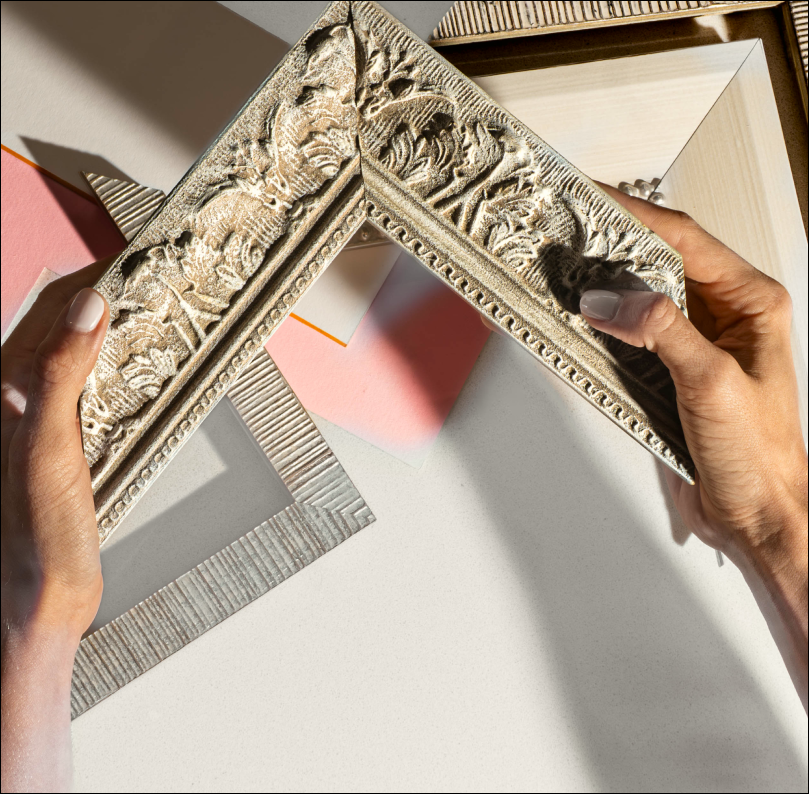
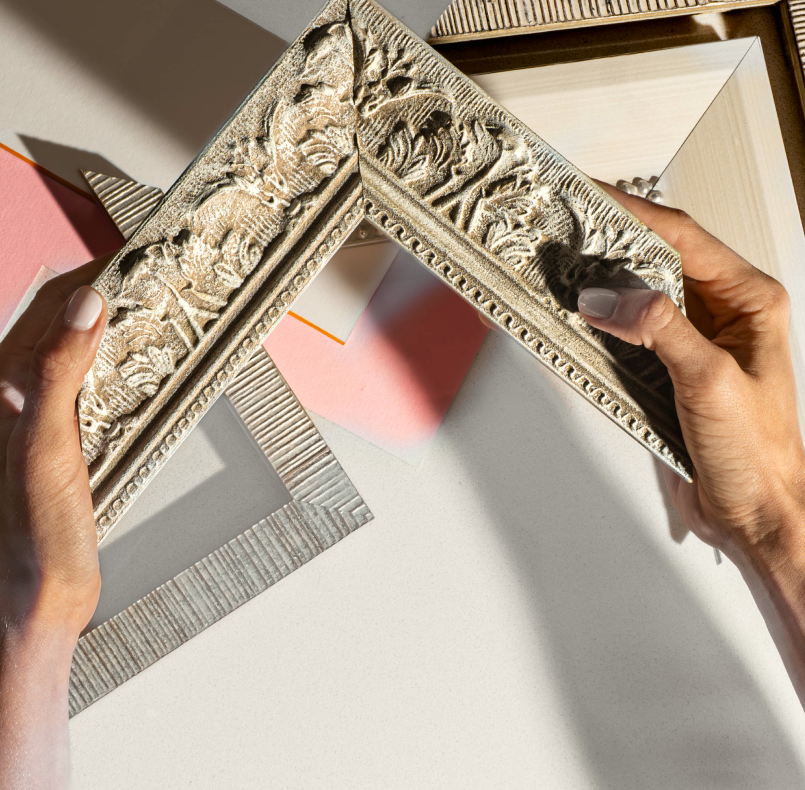
Ajustes "About"

diff --git a/public/assets/css/about.css b/public/assets/css/about.css
@@ -1,16 +1,9 @@
+/* MOBILE DEVICES ( <= 678px ) */
 .about-main-20 {
    width: 100%;
    height: auto;
    padding-inline: var(--gutter);
    max-width: var(--site-max-width);
-}
-
-.about-title-20 {
-   display: flex;
-   text-align: left;
-   overflow: hidden;
-   white-space: nowrap;
-   padding: 20px 0px 20px;
 }
 
 .about-image-20 {
@@ -57,49 +50,18 @@
 }
 
 .dual-content-20 {
-   padding: 20px 20px;
+   padding: 20px;
    position: relative;
    border-bottom: none;
    max-inline-size: 100%;
 }
 
-.dual-header-20 {
-   margin-bottom: 30px;
-}
-
-.left-title-20,
-.right-title-20 {
-   font-size: 18px;
-   font-weight: 500;
-   margin: 0 0 5px 0;
-   line-height: 120%;
-   color: var(--black);
-   font-family: 'Sohne';
-}
-
 .left-description-20,
 .right-description-20 {
-   font-size: 14px;
-   line-height: 14px;
-   margin-bottom: 30px;
-   color: var(--black);
-   font-family: 'Century Old Style Std', serif;
-}
-
-.about-subtitle-20 {
-   margin: 0 0 15px 0;
-   color: var(--black);
-   font-family: 'CenturyItlc';
-   font-size: clamp(18px, calc(12px + 1.1vw), 18px);
-}
-
-.left-text-20,
-.right-text-20 {
-   line-height: 120%;
-   margin: 0 0 15px 0;
+   font-size: 12px;
+   line-height: 1.1em;
    color: var(--black);
    font-family: 'CenturyReg';
-   font-size: clamp(12px, calc(12px + 1.1vw), 16px);
 }
 
 .dual-right-column-20 {
@@ -116,7 +78,14 @@
 
 .dual-right-image-20,
 .dual-left-image-20 {
+   overflow: auto;
+   position: relative;
+   block-size: fit-content;
+}
+
+.dual-img-20 {
    width: 100%;
+   height: 100%;
    border: none;
    display: block;
    max-height: 650px;
@@ -144,4 +113,17 @@
    border-left: none;
    border-right: 1px solid var(--black);
    border-bottom: none;
+}
+
+/* DESKTOP DEVICES ( > 678px ) */
+@media screen and (min-width: 678px) {
+   .dual-content-20 {
+      padding: 30px 60px 30px 30px;
+   }
+
+   .left-description-20,
+   .right-description-20 {
+      font-size: 16px;
+      line-height: 1.1em;
+   }
 }

diff --git a/public/views/about.php b/public/views/about.php
@@ -8,49 +8,44 @@
         <div class="dual-grid-20">
             <div class="dual-left-column-20">
                 <div class="dual-content-20">
-                    <div class="dual-header-20"></div>
                     <div class="left-description-20">
-                        <p class="about-subtitle-20">Bespoke Artvisory</p>
-                        <br>
-                        <p class="left-text-20">
-                            ARTRA exists in the space between art and emotion.<br>
-                            We frame with perspective&#8212; shaping how art lives<br>
-                            in its environment, how it breathes with light, with<br>
-                            space&#8212; how it meets the eye.<br>
-                            Every decision is deliberate: proportion, texture, color.
-                        </p>
+                        ARTRA was born from the need to honor what art
+                        makes us feel &#8212;from the belief that a frame is
+                        not a boundary, but a continuation of the story.<br>
+                        Think sculptural textures, deep tones, and bold
+                        simplicity&#8212; frames that do more than surround art;
+                        they complete it.
                     </div>
                 </div>
             </div>
             <div class="dual-right-column-20">
-                <picture>
-                    <source srcset="<?= BASE_URL; ?>/public/assets/image/about/img-03.png" media="(max-width: 767px)">
-                    <img class="dual-right-image-20" src="<?= BASE_URL; ?>/public/assets/image/about/img-03.png" alt="Framed Work">
-                </picture>
+                <div class="dual-right-image-20">
+                    <picture>
+                        <source srcset="<?= BASE_URL; ?>/public/assets/image/about/img-02.png" media="(max-width: 767px)">
+                        <img class="dual-img-20" src="<?= BASE_URL; ?>/public/assets/image/about/img-02.png" alt="Framed Work">
+                    </picture>
+                </div>
             </div>
         </div>
     </section>
     <section class="dual-section-20">
         <div class="dual-grid-20">
             <div class="dual-left-column-21">
-                <picture>
-                    <source srcset="<?= BASE_URL; ?>/public/assets/image/about/img-04.jpg" media="(max-width: 767px)">
-                    <img class="dual-left-image-20" src="<?= BASE_URL; ?>/public/assets/image/about/img-04.jpg" alt="Street style with sneakers">
-                </picture>
+                <div class="dual-left-image-20">
+                    <picture>
+                        <source srcset="<?= BASE_URL; ?>/public/assets/image/about/img-03.png" media="(max-width: 767px)">
+                        <img class="dual-img-20" src="<?= BASE_URL; ?>/public/assets/image/about/img-03.png" alt="Street style with sneakers">
+                    </picture>
+                </div>
             </div>
             <div class="dual-right-column-21">
                 <div class="dual-content-20">
-                    <div class="dual-header-20"></div>
                     <div class="right-description-20">
-                        <p class="right-text-20">
-                            ARTRA was born from the need to honor what art makes us<br>
-                            feel. From the belief that a frame is not a boundary, but a<br>
-                            continuation of the story.<br>
-                            It shapes how a piece is seen, how it lives in its space, and<br>
-                            how it moves those who encounter it. Because every frame<br>
-                            tells a story: of perspective, of presence,<br>
-                            of dialogue between art and its surroundings.
-                        </p>
+                        ARTRA exists in the space between art and emotion.<br>
+                        We frame with perspective &#8212;shaping how art
+                        lives in its environment, how it breathes with light,
+                        with space&#8212; how it meets the eye.
+                        Every decision is deliberate: proportion, texture, color.
                     </div>
                 </div>
             </div>
@@ -60,34 +55,35 @@
         <div class="dual-grid-20">
             <div class="dual-left-column-20">
                 <div class="dual-content-20">
-                    <div class="dual-header-20"></div>
                     <div class="left-description-20">
-                        <p class="left-text-20">
-                            We believe framing si a form of storytelling - a dialogue<br>
-                            between craft, color and emotion.<br>
-                            Every piece deserves a frame that understands it &#8212; its<br>
-                            rhythm, its quietness or loudness, its intent.
-                            <br><br>
-                            Our process is slow, deliberate and deeply human.<br>
-                            <i>Measured by eye guided by feeling.</i>
-                            <br><br>
-                            We design with emotion and precision, shaping not just<br>
-                            how art its seen , but how it lives within a space.<br>
-                            To frame is to listen &#8212; to the art, the room the person<br>
-                            behind it.
-                            <br><br><br>
-                            BECAUSE PRESENTATION IS NOT JUST AN<br>
-                            AFTERTHOUGHT &#8212; ITS THE FINAL ACT OF<br>
-                            CREATION.
-                        </p>
+                        We believe framing si a form of storytelling &#8212;
+                        a dialogue between craft, color and emotion.<br>
+                        Every piece deserves a frame that understands it &#8212;
+                        its rhythm, its quietness or loudness, its intent.<br>
+                        Our process is slow, deliberate and deeply human &#8212;
+                        measured by eye, guided by feeling.
+                        <br><br>
+                        <i>
+                            We design with emotion and precision,
+                            shaping not just how art its seen,
+                            but how it lives within a space.<br>
+                            To frame is to listen &#8212; to the art,
+                            the room the person behind it.
+                        </i>                          
+                        <br><br><br>
+                        BECAUSE PRESENTATION IS NOT JUST AN
+                        AFTERTHOUGHT &#8212; ITS THE FINAL ACT OF
+                        CREATION.
                     </div>
                 </div>
             </div>
             <div class="dual-right-column-20">
-                <picture>
-                    <source srcset="<?= BASE_URL; ?>/public/assets/image/about/img-05.png" media="(max-width: 767px)">
-                    <img class="dual-right-image-20" src="<?= BASE_URL; ?>/public/assets/image/about/img-05.png" alt="Framed Work">
-                </picture>
+                <div class="dual-right-image-20">
+                    <picture>
+                        <source srcset="<?= BASE_URL; ?>/public/assets/image/about/img-04.png" media="(max-width: 767px)">
+                        <img class="dual-img-20" src="<?= BASE_URL; ?>/public/assets/image/about/img-04.png" alt="Framed Work">
+                    </picture>
+                </div>
             </div>
         </div>
     </section>
